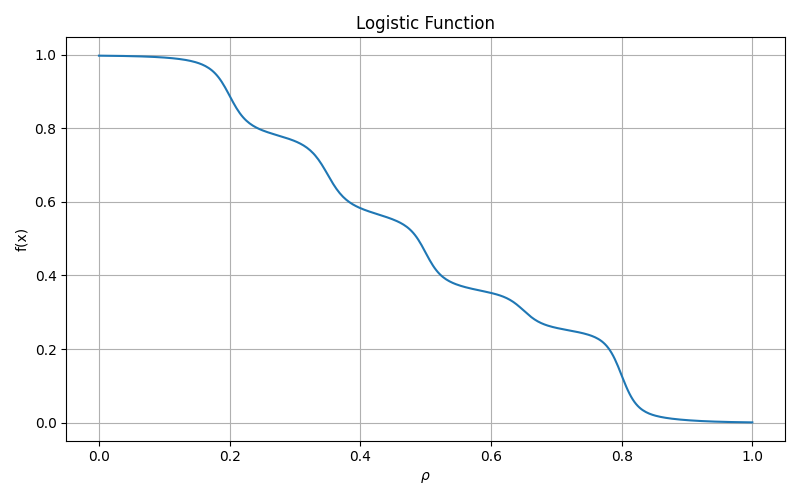
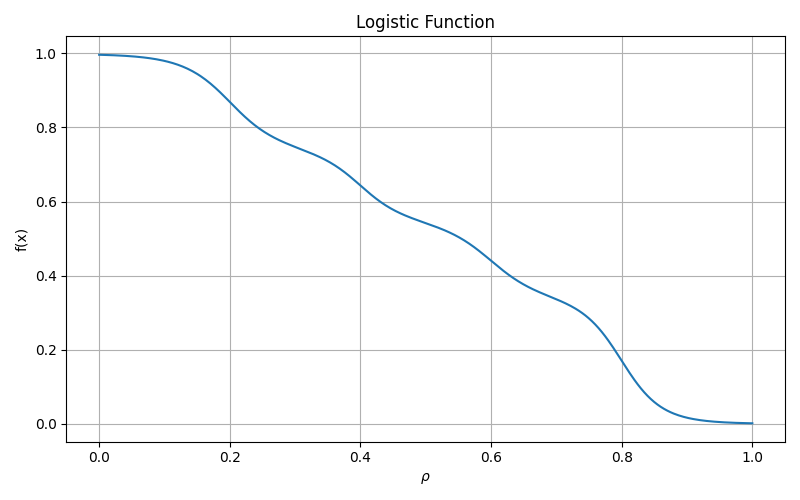
abandonded integrating LogisticProfiles class into desc/profiles

diff --git a/Scratch/Runs/logistic/opt.py b/Scratch/Runs/logistic/opt.py
@@ -30,35 +30,9 @@ eq_init= eq_init_fixbound[-1].copy() #copy of final eq in family
 
 
 #-----------------------------------------------------
-#Objective of Choice:
+#Objectives of Choice:
 objective= ObjectiveFunction(ForceBalance(eq=eq_init))
 
-#Importing Custom Constraint Funcs:(NOT NECESSARY FOR LOGISTIC FUNC)
-# from scratch.objectives.constraints import ( 
-#     pressure_edge,
-#     grad_pressure_axis,
-#     grad_pressure_edge
-# )
-
-#Constructing the Objective Wrappers for Custom Func:
-# pressure_edge_zero = LinearObjectiveFromUser(
-#     fun=pressure_edge,
-#     thing=eq_init,
-#     target=0.0,
-#     weight=1.0,
-# )
-# grad_pressure_axis_zero = LinearObjectiveFromUser(
-#     fun=grad_pressure_axis,
-#     thing=eq_init,
-#     target=0.0,
-#     weight=1.0,
-# )
-# grad_pressure_edge_zero = LinearObjectiveFromUser(
-#     fun=grad_pressure_edge,
-#     thing=eq_init,
-#     target=0.0,
-#     weight=1.0,
-# )
 
 #List of Constraints:
 constraints = (

diff --git a/Scratch/Runs/logistic/eq.py b/Scratch/Runs/logistic/eq.py
@@ -6,13 +6,12 @@
 import numpy as np
 import sys
 import os
-sys.path.append("/Users/macdaddi/DESC")
+sys.path.insert("/Users/macdaddi/DESC")
 import desc.io
 from desc.continuation import solve_continuation_automatic
 from desc.equilibrium import Equilibrium
 from desc.geometry import FourierRZToroidalSurface
-from desc.profiles import PowerSeriesProfile
-from scratch.profiles.logistic import logistic_opt
+from desc.profiles import PowerSeriesProfile, LogisticProfile
 
 
 
@@ -33,7 +32,15 @@ surf= FourierRZToroidalSurface(
 )
 
 # Initializing Pressure and Iota:
-pressure = logistic_opt(np.random.rand(5**2)) #rand(#), # is N_k * N_shift
+pressure = LogisticProfile(
+    N_k=5,
+    k_min=20,
+    k_max=40,
+    N_shift=5,
+    shift_min=-2,
+    shift_max=2,
+    name="logistic_pressure"
+)
 iota = PowerSeriesProfile([1, 0, 1.5])  # 1 + 1.5 r^2
 
 # Constructing Equilibrium 

diff --git a/desc/profiles.py b/desc/profiles.py
@@ -1678,3 +1678,25 @@ class FourierZernikeProfile(_Profile):
         c, resids, rank, s = jnp.linalg.lstsq(A, f, rcond=None)
         c = (c.T / scale).T  # broadcast scale coefficients
         return cls(c, modes=basis.modes, NFP=NFP, name=name)
+
+
+
+
+
+
+
+
+
+
+
+
+#-------------------------------------------------------------------------------#
+#DO NOT TRUST LOGISTIC PROFILE AS CURRENTLY IS
+
+class LogisticProfile(_Profile):
+    """Superposition of logistic functions (designed for monotonic pressure).
+    
+    
+    
+    """
+

diff --git a/Scratch/Profiles/logistic.py b/Scratch/Profiles/logistic.py
@@ -165,7 +165,7 @@ plt.title('Logistic Function')
 plt.xlabel(r'$\rho$')
 plt.ylabel('f(x)')
 #plot currently uses random weights:
-plt.plot(X, logistic_super(5, 20, 40, 8, -3, 3, np.random.rand(5*8)))
+plt.plot(X, logistic_super(4, 20, 40, 4, -3, 3, np.random.rand(4*4)))
 plt.grid()
 plt.tight_layout()
 plt.savefig('logistic.png')
